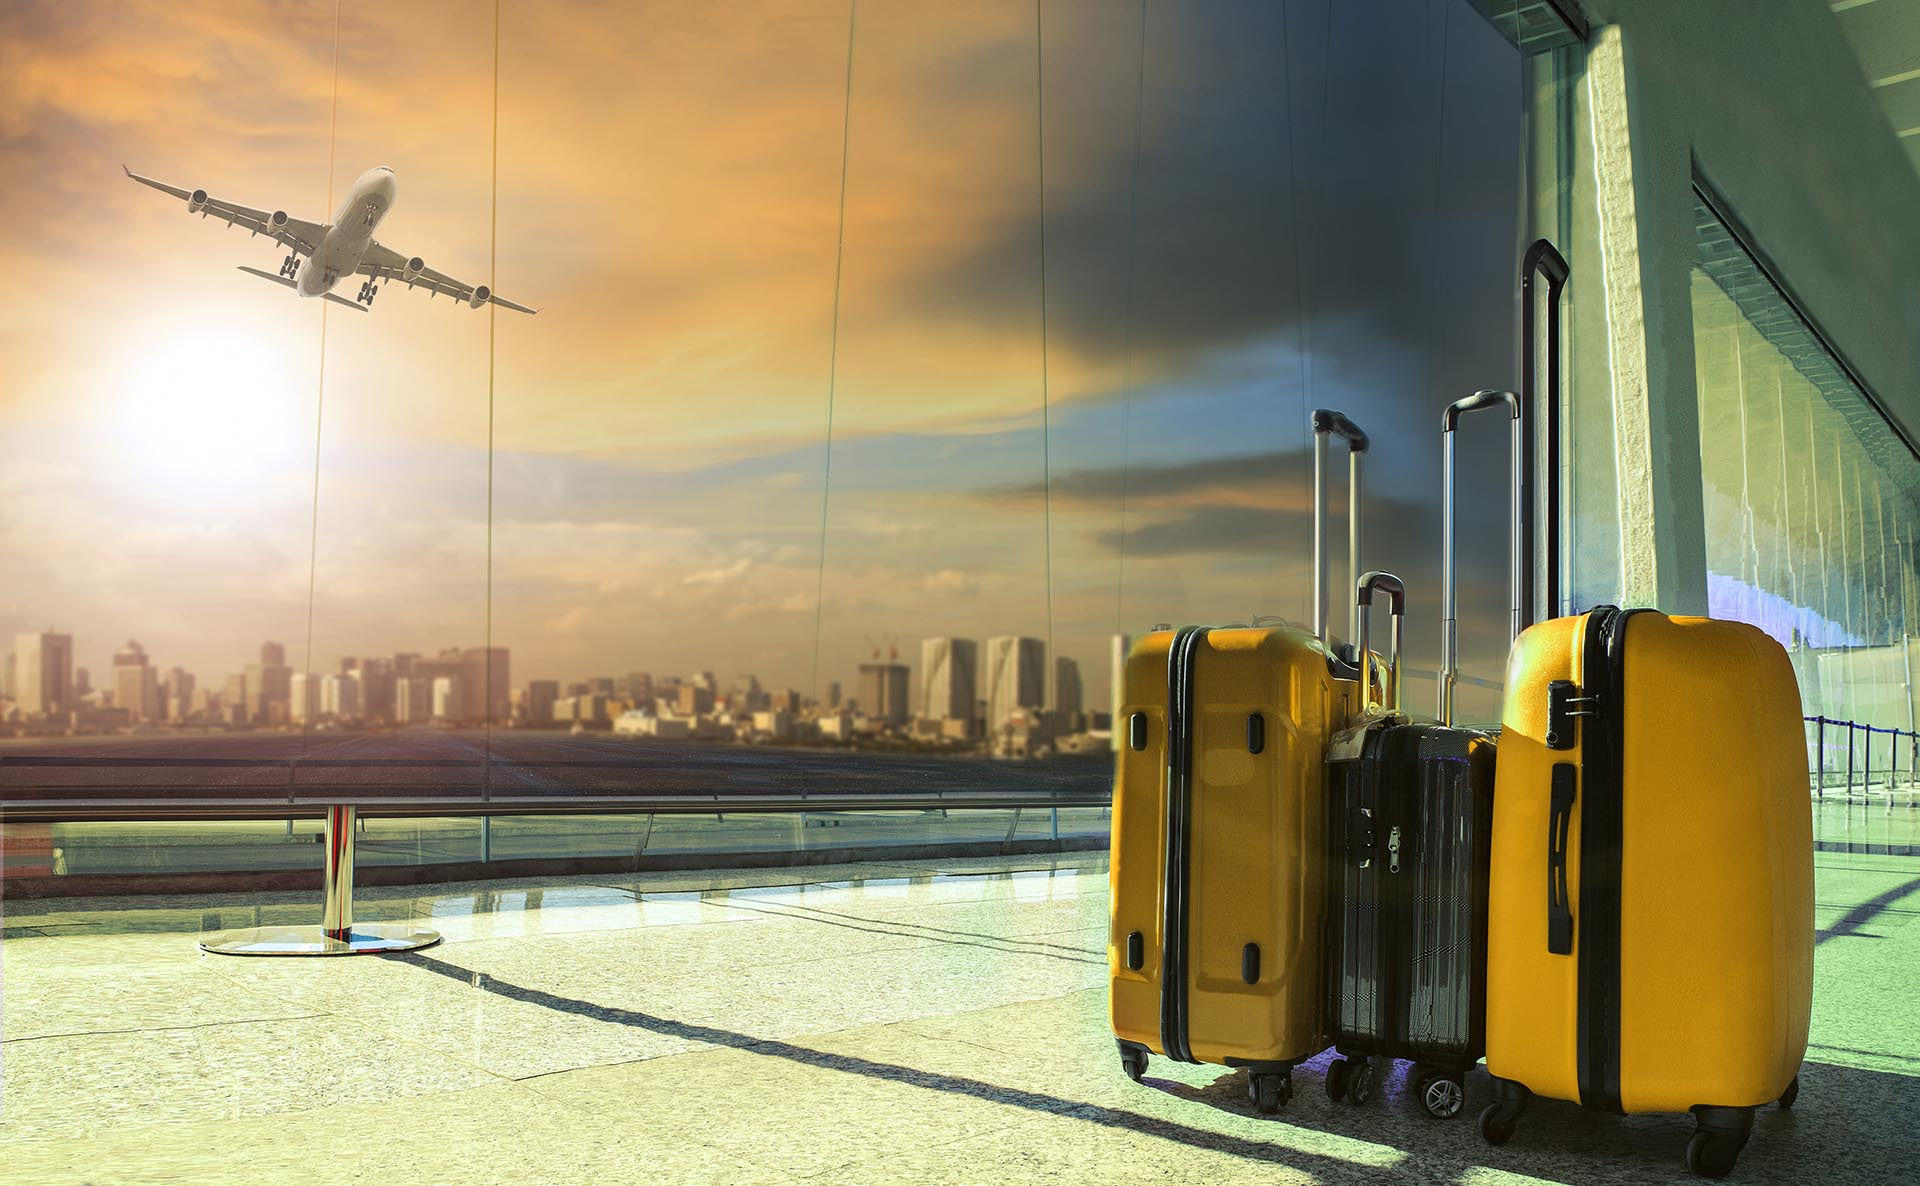
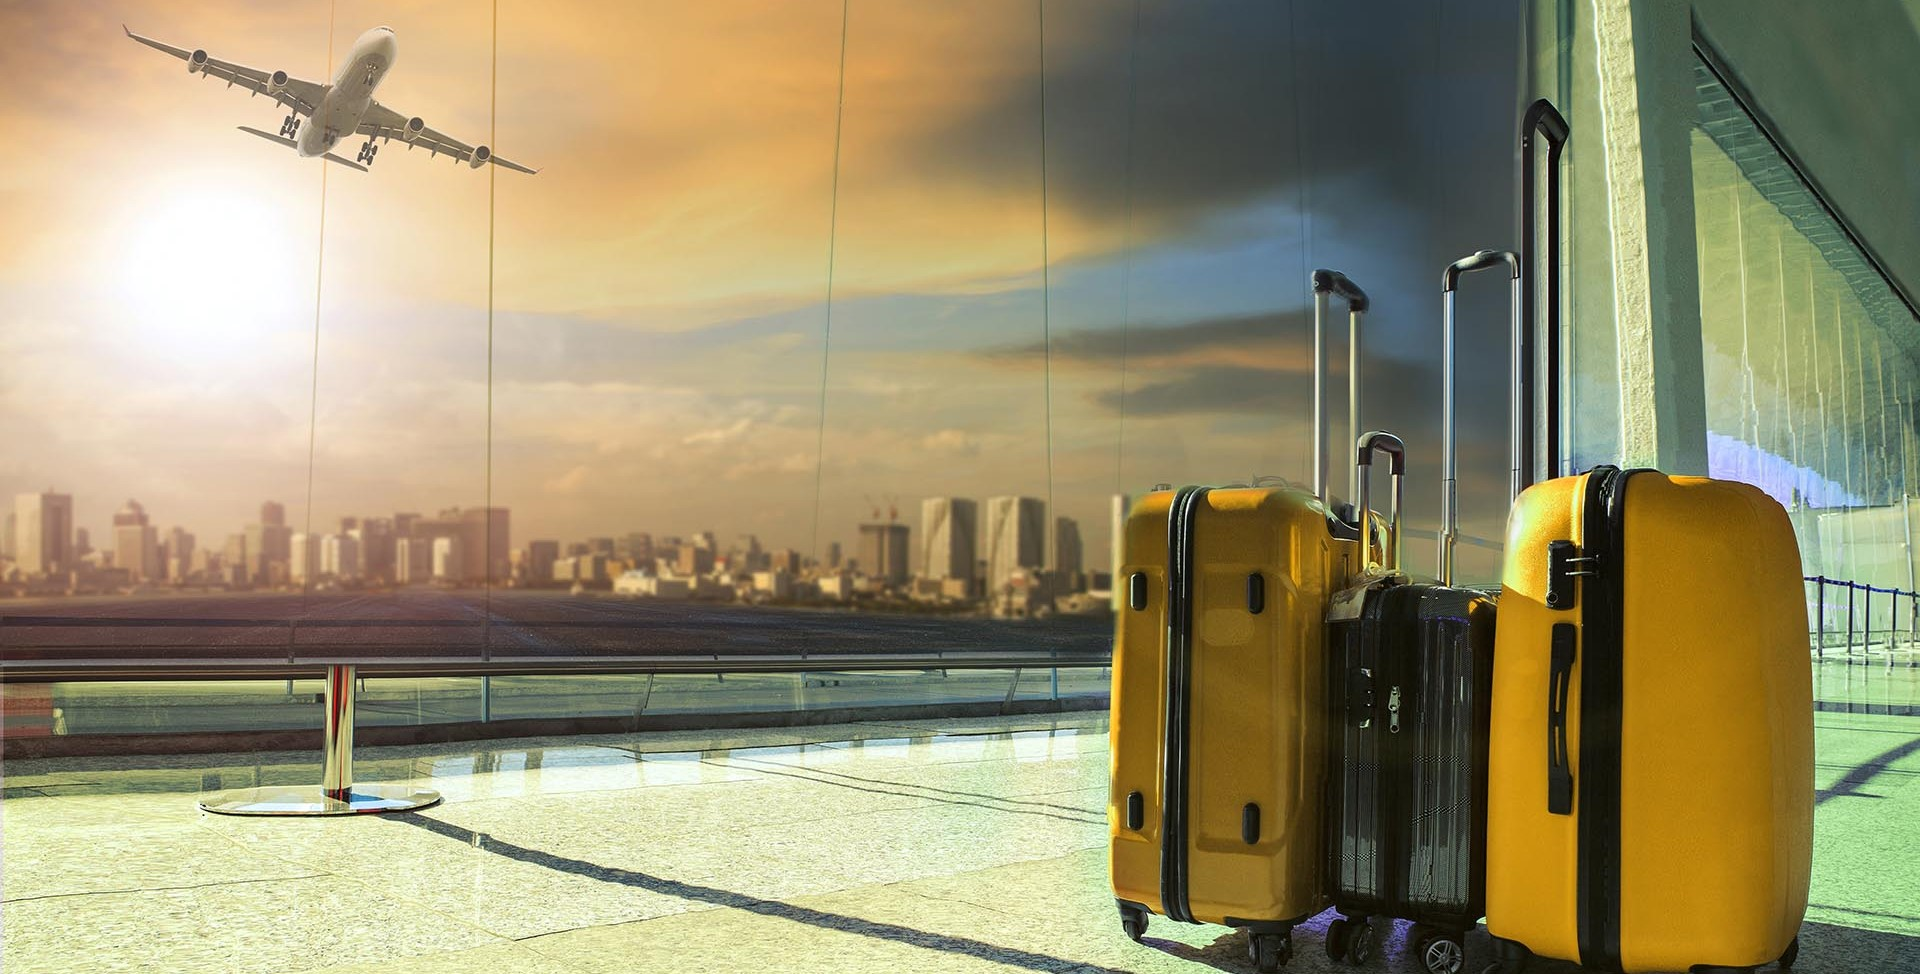
fixed Area Utente

diff --git a/PackAndTravel/WEBCONTENT/scripts/validate.js b/PackAndTravel/WEBCONTENT/scripts/validate.js
@@ -144,10 +144,10 @@ function checkSignup(obj) {
 function checkModifica(obj){
 	let check=true;
 	let form = document.getElementById("regForm");
-	if ((form.password.value!=null || form.password.value!="")&& !pswMatching()) check = false;
-	if ((form.password.value!=null || form.password.value!="") && !validatePassword()) check = false;
-	if((form.callulare.value!=null || form.cellulare.value!="") && !validateCellulare()) check = false;
-	
+	if (form.password.value!="" && !pswMatching()) check = false;
+	if (form.password.value!="" && !validatePassword()) check = false;
+	if(form.cellulare.value!="" && !validateCellulare()) check = false;
+	if(form.password.value=="" && form.cellulare.value=="" && form.indirizzo.value=="") check=false;
 	
 	if (check) obj.submit();
 	

diff --git a/PackAndTravel/WEBCONTENT/styles/Index.css b/PackAndTravel/WEBCONTENT/styles/Index.css
@@ -1,15 +1,16 @@
 @charset "ISO-8859-1";
 
 .picture {
-   display: flex;
+   display: block;
    justify-content: center;
    align-items: center;
-   height: 100vh;
+   margin-bottom:-4px;
+   
 }
 
 .picture img {
-   max-width: 100%;
-   max-height: 100%;
+   width: 100%;
+   height: auto;
 }
 
 h2.Suggested {

diff --git a/PackAndTravel/src/main/java/control/ModificaDatiServlet.java b/PackAndTravel/src/main/java/control/ModificaDatiServlet.java
@@ -1,6 +1,7 @@
 package control;
 
 import java.io.IOException;
+import java.sql.SQLException;
 
 import javax.servlet.RequestDispatcher;
 import javax.servlet.ServletException;
@@ -8,6 +9,11 @@ import javax.servlet.annotation.WebServlet;
 import javax.servlet.http.HttpServlet;
 import javax.servlet.http.HttpServletRequest;
 import javax.servlet.http.HttpServletResponse;
+import javax.sql.DataSource;
+
+import model.AccountUser;
+import model.AccountUserDAO;
+import model.HelperClass;
 
 /**
  * Servlet implementation class ModificaDatiServlet
@@ -18,18 +24,69 @@ public class ModificaDatiServlet extends HttpServlet {
        
    
 	protected void doPost(HttpServletRequest request, HttpServletResponse response) throws ServletException, IOException {
+		AccountUser auth = (AccountUser) request.getSession().getAttribute("auth");
+		DataSource ds = (DataSource) getServletContext().getAttribute("DataSource");
+		AccountUserDAO user = new AccountUserDAO(ds);
+		String email = auth.getEmail();
 		String passwordNuova=null;
 		String confermaPassword=null;
-		
-		if(!passwordNuova.equals(confermaPassword)) {
-	        String error = "Password e conferma password non corrispondono";
-	        request.setAttribute("error", error);
-	        RequestDispatcher dispatcher = getServletContext().getRequestDispatcher("/common/AreaUtente.jsp");
-	        dispatcher.forward(request, response);
-	        
-	      }
+		String indirizzo = null;
+		String cellulare = null;	
 		
 		
+		
+	 	   if(request.getParameter("password")!= "") {
+			passwordNuova= request.getParameter("password");
+			confermaPassword = request.getParameter("ConfermaPassword");		
+		
+			if(!passwordNuova.equals(confermaPassword)) { 
+		      String error ="Password e conferma password non corrispondono";
+		      request.setAttribute("error", error); 
+		      RequestDispatcher dispatcher = getServletContext().getRequestDispatcher("/common/AreaUtente.jsp");
+		      dispatcher.forward(request, response);}
+		
+		 passwordNuova= HelperClass.toHash(passwordNuova);
+		 try {
+			user.doUpdatePassword(email,passwordNuova);
+		} catch (SQLException e) {
+			// TODO Auto-generated catch block
+			e.printStackTrace();
+		}
+	 	   }
+		  
+		  if(request.getParameter("indirizzo")!="") {
+			  indirizzo=request.getParameter("indirizzo");
+			  System.out.println("Indirizzo mandato: "+indirizzo);
+			  try {
+				user.doUpdateAddress(email, indirizzo);
+			} catch (SQLException e) {
+				
+				e.printStackTrace();
+			}
+			  auth.setAddress(indirizzo);
+		  }
+		 
+		
+		  if(request.getParameter("cellulare")!="") {
+			  cellulare=request.getParameter("cellulare");
+			  System.out.println("Cellulare mandato: "+cellulare);
+			  try {
+				user.doUpdateNumber(email, cellulare);
+			} catch (SQLException e) {
+				// TODO Auto-generated catch block
+				e.printStackTrace();
+			}
+			  auth.setNumber(cellulare);
+		  }
+		  RequestDispatcher dispatcher = getServletContext().getRequestDispatcher("/common/AreaUtente.jsp");
+		  dispatcher.forward(request, response); 
+		
+		}
+	 	 	   
+	
+	
 	}
+	
+	
 
-}
+

diff --git a/PackAndTravel/src/main/java/model/AccountUserDAO.java b/PackAndTravel/src/main/java/model/AccountUserDAO.java
@@ -89,4 +89,76 @@ public class AccountUserDAO {
 					con.close();
 			}
 	}
-}}
+}
+	
+	public synchronized void doUpdatePassword(String email, String password) throws SQLException {
+		String query;
+		PreparedStatement pst=null;
+		Connection con=null;
+		try {
+			con=ds.getConnection();
+			query = "update accountuser set passw = ? where email = ? ";
+			pst = con.prepareStatement(query);
+			pst.setString(1, password);
+			pst.setString(2, email);
+			pst.executeUpdate();
+		}finally {
+			try {
+				if(pst != null)
+					pst.close();
+			}finally{
+				if(con != null)
+					con.close();
+			}
+	}
+	}
+
+	public synchronized void doUpdateAddress(String email, String indirizzo) throws SQLException {
+		String query;
+		PreparedStatement pst=null;
+		Connection con=null;
+		try {
+			con=ds.getConnection();
+			query = "update accountuser set indirizzo = ? where email = ? ";
+			pst = con.prepareStatement(query);
+			pst.setString(1, indirizzo);
+			pst.setString(2, email);
+			pst.executeUpdate();
+		}finally {
+			try {
+				if(pst != null)
+					pst.close();
+			}finally{
+				if(con != null)
+					con.close();
+			}
+	}
+	}
+	public synchronized void doUpdateNumber(String email, String cellulare) throws SQLException {
+		String query;
+		PreparedStatement pst=null;
+		Connection con=null;
+		try {
+			con=ds.getConnection();
+			query = "update accountuser set telefono = ? where email = ? ";
+			pst = con.prepareStatement(query);
+			pst.setString(1, cellulare);
+			pst.setString(2, email);
+			pst.executeUpdate();
+		}finally {
+			try {
+				if(pst != null)
+					pst.close();
+			}finally{
+				if(con != null)
+					con.close();
+			}
+	}
+	}
+
+
+
+
+
+
+}
